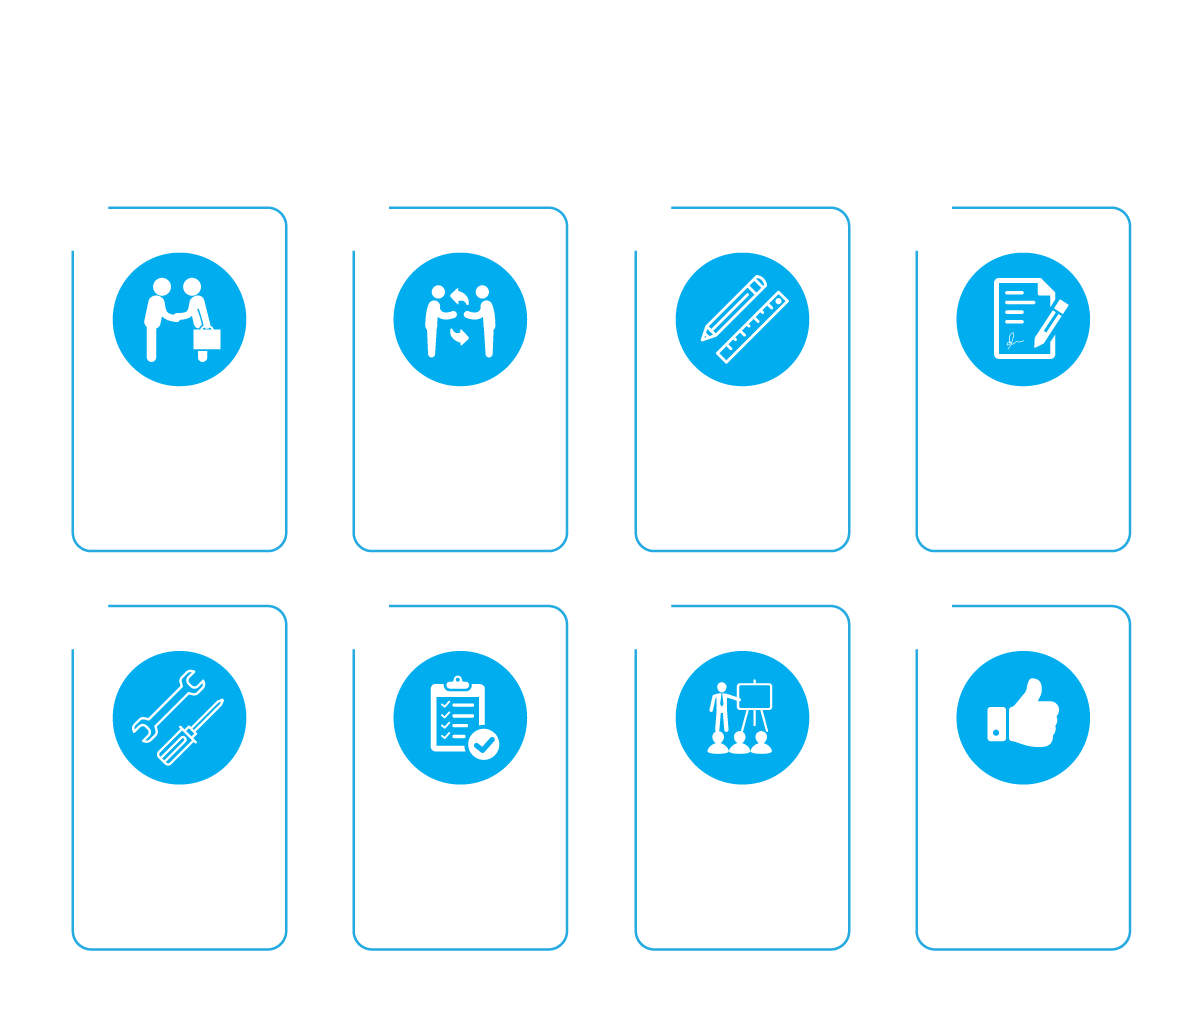
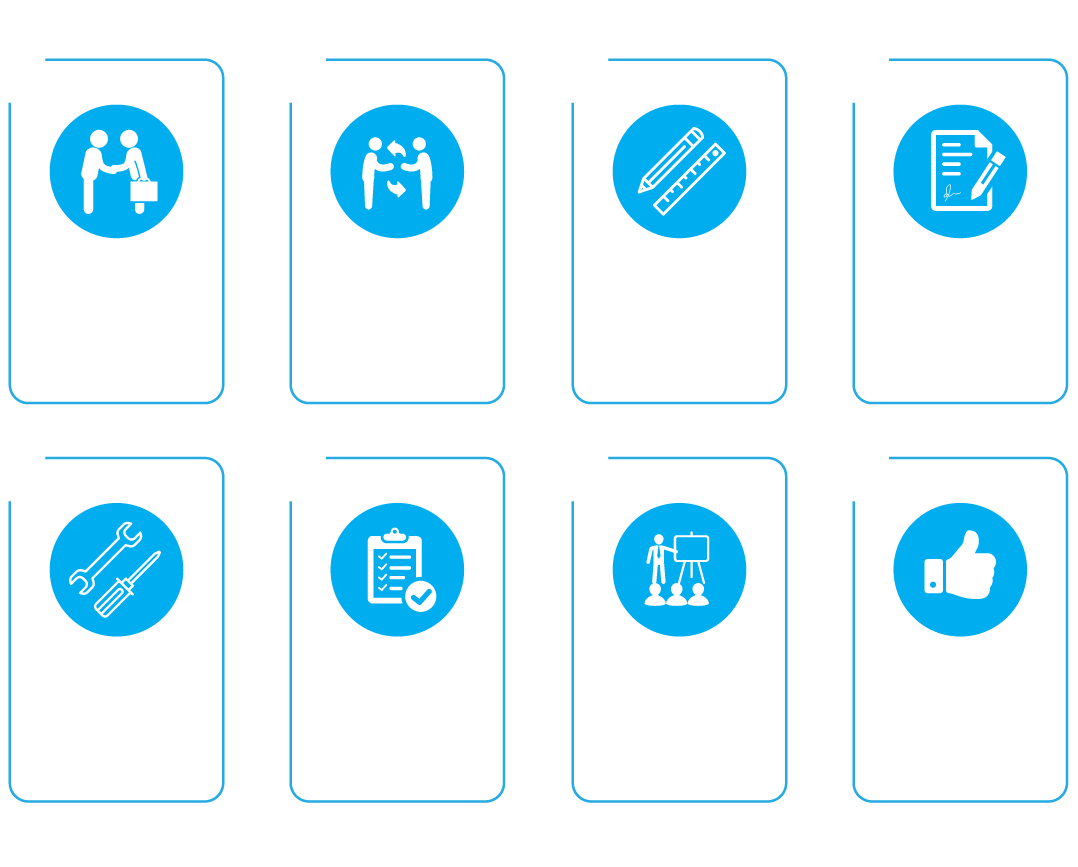
Tweaking infographic layout

diff --git a/spec/views/vertical_markets/_buy.html.erb_spec.rb b/spec/views/vertical_markets/_buy.html.erb_spec.rb
@@ -7,6 +7,8 @@ RSpec.describe "vertical_markets/_buy.html.erb", :type => :view do
     FactoryGirl.create(:site_setting, name: 'store_link', content: 'http://shop.harmanpro.com')
     FactoryGirl.create(:site_setting, name: 'buy_direct_from_harman_headline', content: 'Buy Direct From Us')
     FactoryGirl.create(:site_setting, name: "buy_from_online_retailer_headline", content: "Buy From A Retailer")
+    FactoryGirl.create(:site_setting, name: "installed-buy-headline", content: "AV System Design")
+    FactoryGirl.create(:site_setting, name: "installed-buy-paragraph", content: "In 8 Easy Steps")
     @retailer = FactoryGirl.create(:online_retailer)
     @vertical_market = FactoryGirl.create(:vertical_market)
     @reference_system = FactoryGirl.create(:reference_system, vertical_market: @vertical_market)
@@ -19,6 +21,8 @@ RSpec.describe "vertical_markets/_buy.html.erb", :type => :view do
     end
 
     it "should use infographic as 'buy' section" do
+      expect(rendered).to have_content("AV System Design")
+      expect(rendered).to have_content("In 8 Easy Steps")
       expect(rendered).to have_css("img.infographic")
     end
 
@@ -50,6 +54,11 @@ RSpec.describe "vertical_markets/_buy.html.erb", :type => :view do
       expect(rendered).to have_content("Buy From A Retailer")
       expect(rendered).to have_link(@retailer.name, href: @retailer.url)
       expect(rendered).to have_css("img[@src='#{@retailer.logo.url(:medium)}']")
+    end
+
+    it "won't have installed audio buy section" do
+      expect(rendered).not_to have_content("AV System Design")
+      expect(rendered).not_to have_content("In 8 Easy Steps")
     end
   end
 

diff --git a/spec/views/vertical_markets/_learn.html.erb_spec.rb b/spec/views/vertical_markets/_learn.html.erb_spec.rb
@@ -13,7 +13,7 @@ RSpec.describe "vertical_markets/_learn.html.erb", :type => :view do
   end
 
   it "shows vertical market description and headline" do
-    expect(rendered).to have_css("h2", text: @vertical_market.headline)
+    expect(rendered).to have_css("h3", text: @vertical_market.headline)
     expect(rendered).to have_content(@vertical_market.description)
   end
 

diff --git a/spec/views/vertical_markets/show.html.erb_spec.rb b/spec/views/vertical_markets/show.html.erb_spec.rb
@@ -42,7 +42,7 @@ describe "vertical_markets/show.html.erb" do
     end
 
     it "has headline and description" do
-      expect(rendered).to have_css("h2", text: @vertical_market.headline)
+      expect(rendered).to have_css("h3", text: @vertical_market.headline)
       expect(rendered).to have_css("div.description", text: @vertical_market.description)
     end
   end
